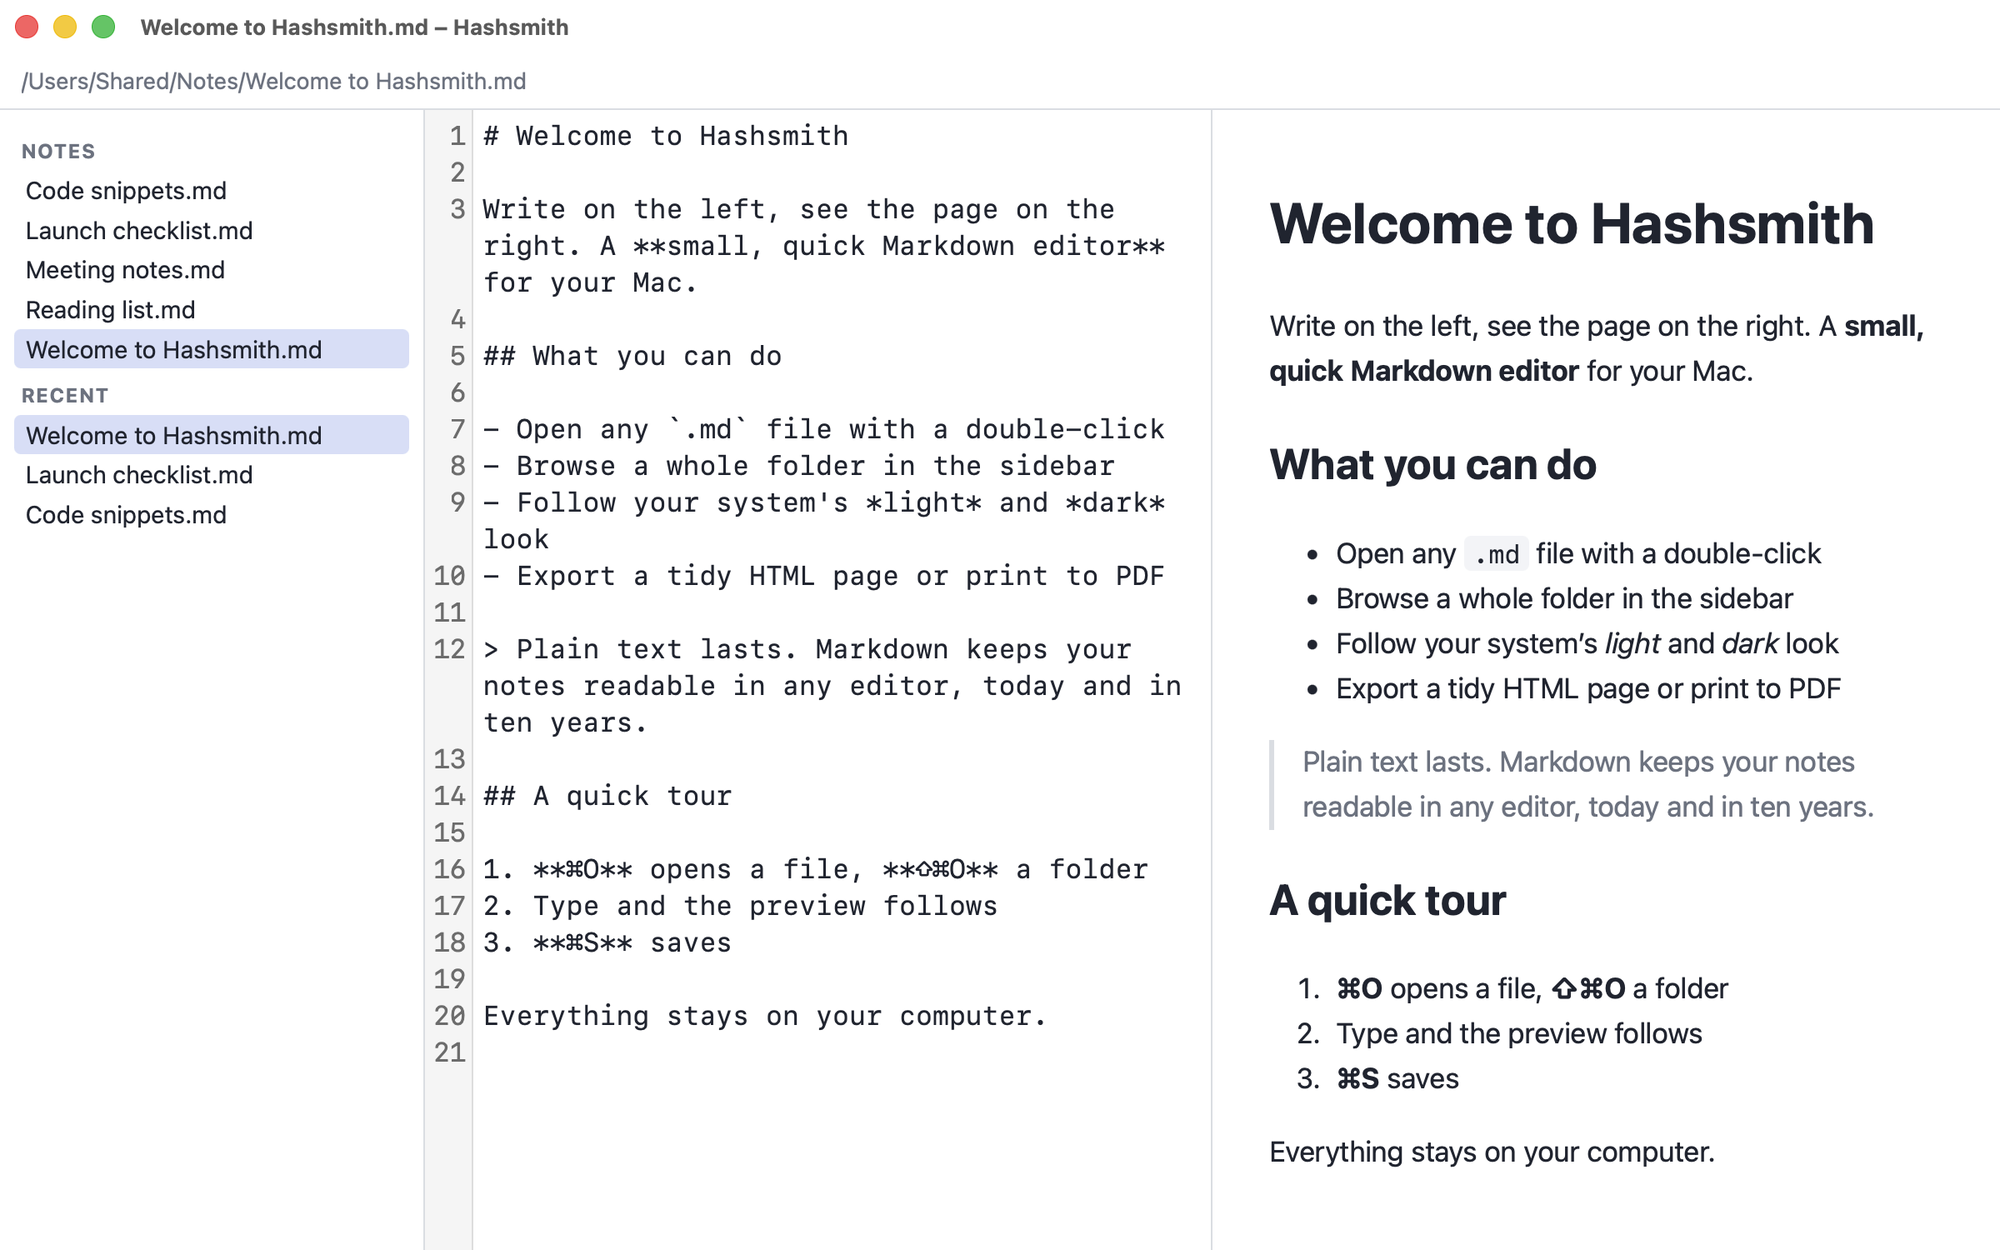
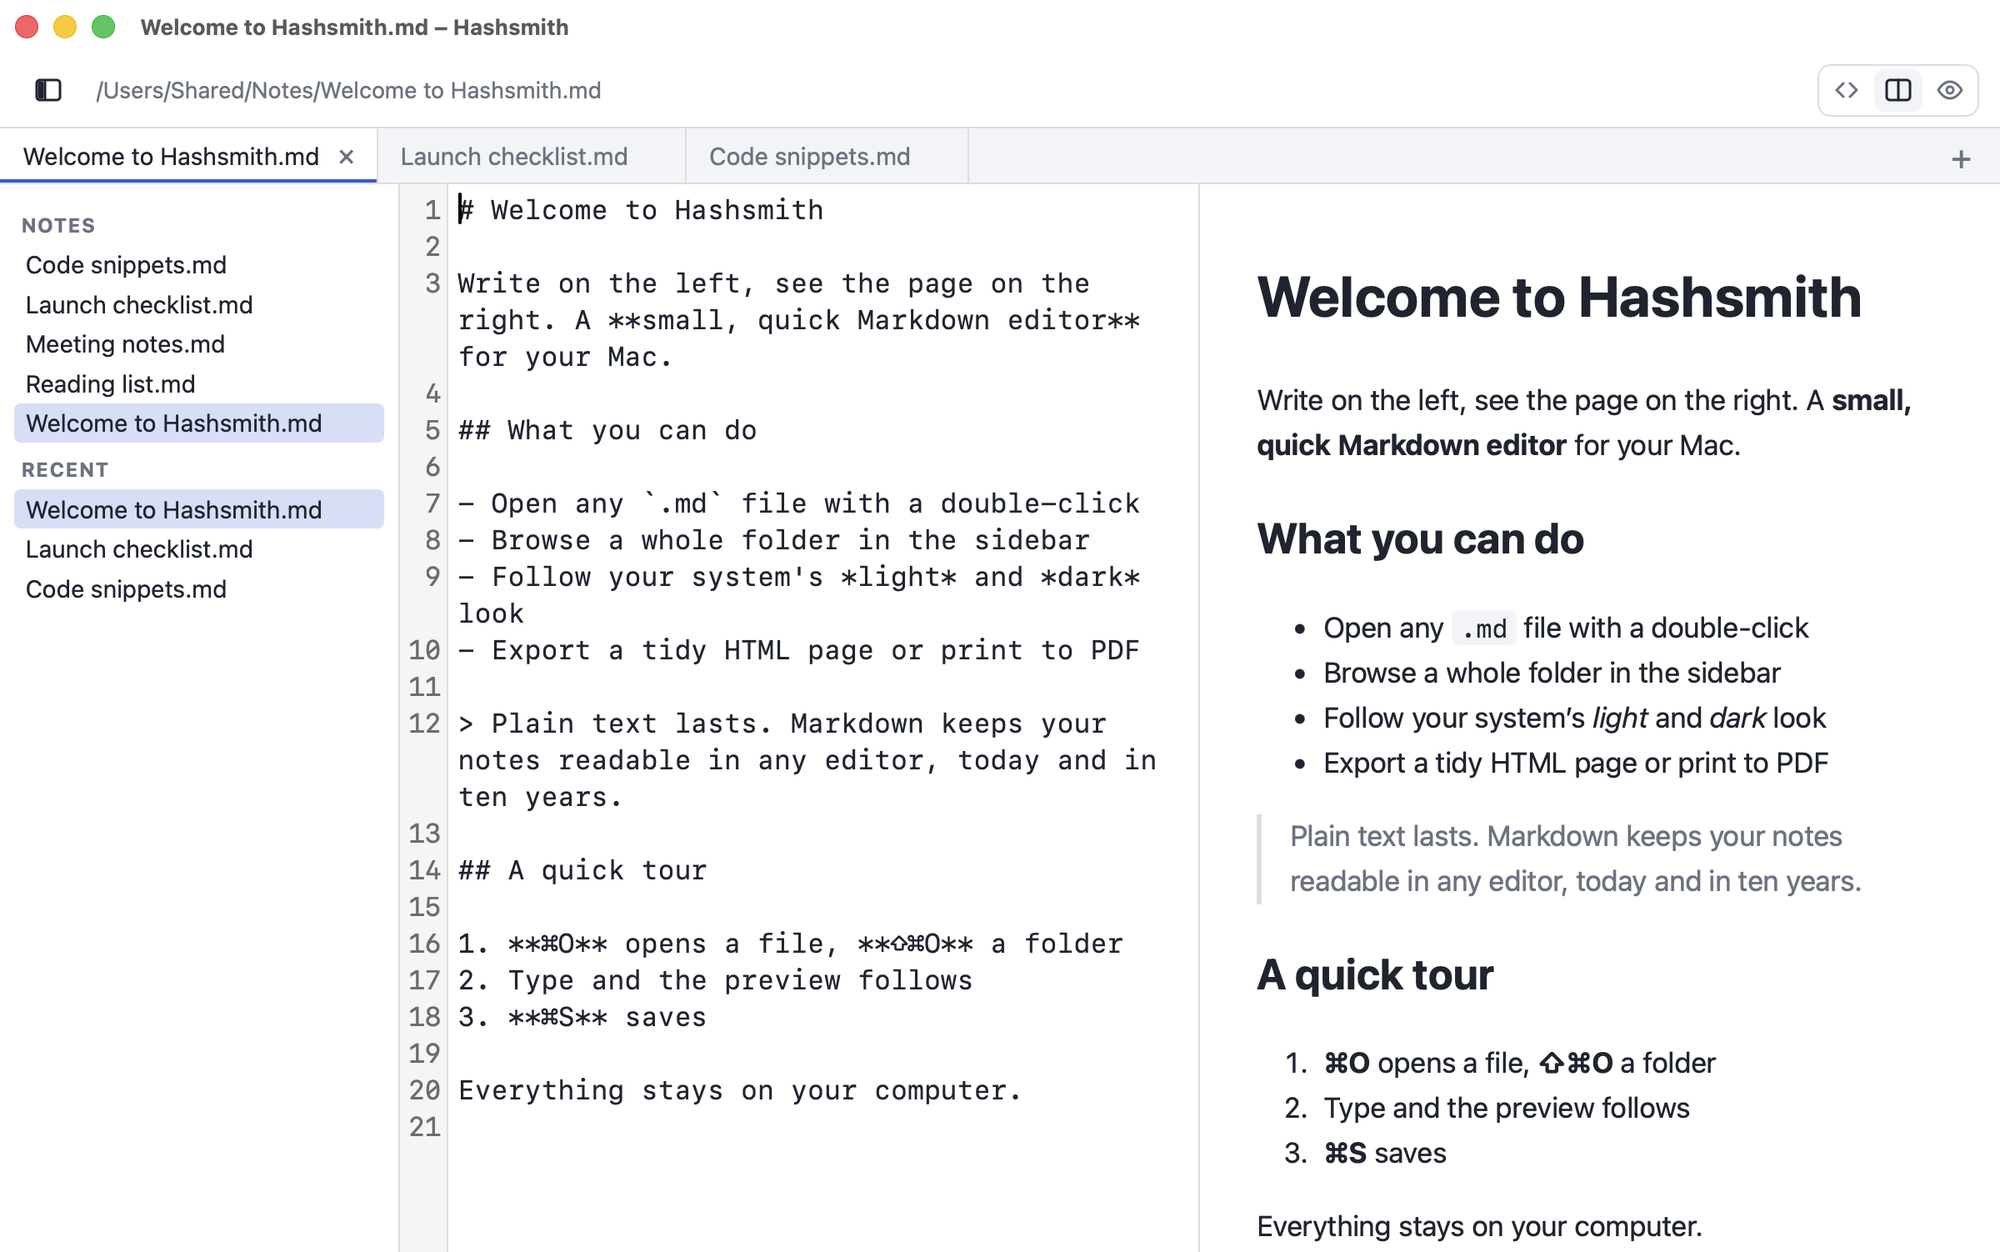
docs: update README

diff --git a/README.md b/README.md
@@ -26,16 +26,18 @@
 <p align="center">
   <picture>
     <source media="(prefers-color-scheme: dark)" srcset="img/app-dark.png">
-    <img src="img/app-light.png" alt="Hashsmith window: the Markdown source on the left, the rendered page on the right, a folder sidebar next to it" width="860">
+    <img src="img/app-light.png" alt="Hashsmith window: tabs on top, a folder sidebar, the Markdown source in the middle and the rendered page on the right" width="860">
   </picture>
 </p>
 
 ## Why Hashsmith
 
 - **Live preview.** Source on the left, rendered page on the right. Tables, task lists and code blocks with syntax highlighting.
-- **Native.** The real menu bar with the shortcuts you know. It uses the system web view instead of shipping a browser, so the macOS app is about 10 MB.
-- **Light and dark.** Editor, preview and export follow your system appearance.
+- **Tabs.** Open several files at once, each with its own undo history. Your tabs come back at the next start, and closing with unsaved changes asks Save, Don't Save or Cancel.
+- **Your view.** Show only the source, only the preview or both side by side. Hide the sidebar and drag the dividers to resize the columns. Hashsmith remembers your layout.
 - **Folders and recent files.** Open a folder, browse its Markdown files in a sidebar and jump back to what you edited last.
+- **Native.** The real menu bar with the shortcuts you know, in English or German. It uses the system web view instead of shipping a browser, so the macOS app is about 10 MB.
+- **Light and dark.** Editor, preview and export follow your system appearance.
 - **Export.** Save a self-contained HTML page, or print to PDF through the system dialog.
 - **Private.** It works offline and sends nothing anywhere. Your documents stay on your computer.
 
@@ -49,6 +51,10 @@
   <tr>
     <td width="50%"><img src="img/04-dark-mode.png" alt="Dark mode"></td>
     <td width="50%"><img src="img/05-folders.png" alt="A folder of notes in the sidebar"></td>
+  </tr>
+  <tr>
+    <td width="50%"><img src="img/06-views.png" alt="Only the preview, with the source and both-panes buttons in the toolbar"></td>
+    <td width="50%"><img src="img/01-write-and-preview.png" alt="Several notes in tabs, source on the left and preview on the right"></td>
   </tr>
 </table>
 
@@ -75,12 +81,16 @@ The packages need WebKitGTK 4.1 (`libwebkit2gtk-4.1`). The Linux builds are new 
 
 | Action | macOS | Linux |
 |---|---|---|
+| New tab | `⌘N` | `Ctrl+N` |
 | Open file | `⌘O` | `Ctrl+O` |
 | Open folder | `⇧⌘O` | `Ctrl+Shift+O` |
+| Close tab | `⌘W` | `Ctrl+W` |
+| Next / previous tab | `⇧⌘]` / `⇧⌘[` | `Ctrl+Shift+]` / `Ctrl+Shift+[` |
 | Save / Save as | `⌘S` / `⇧⌘S` | `Ctrl+S` / `Ctrl+Shift+S` |
 | Export as HTML | `⇧⌘E` | `Ctrl+Shift+E` |
 | Print / Save as PDF | `⌘P` | `Ctrl+P` |
 | Show or hide the sidebar | `⇧⌘B` | `Ctrl+Shift+B` |
+| Source only / both / preview only | `⌥⌘1` / `⌥⌘2` / `⌥⌘3` | `Ctrl+Alt+1` / `2` / `3` |
 | Larger / smaller / actual text size | `⌘+` / `⌘-` / `⌘0` | `Ctrl+` / `Ctrl-` / `Ctrl+0` |
 
 ## Support
